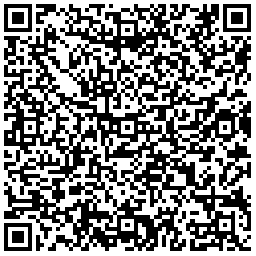
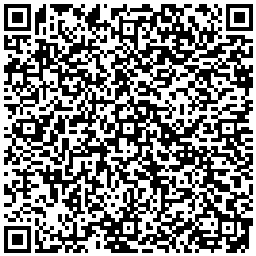
更新

diff --git a/scripts/index.js b/scripts/index.js
@@ -1,0 +1,17 @@
+const fs = require('fs');
+const path = require('path');
+const QRCode = require('qrcode');
+const pkg = require('../package.json')
+const appConfig = require('../project.dgz.json')
+
+QRCode.toFile(path.join(__dirname, '../public/qrcode.png'), JSON.stringify(appConfig), {
+    margin: 1,
+    width: 256,
+    color: {
+        dark: '#000000FF',
+        light: '#FFFFFFFF'
+    }
+}, function (err) {
+    if (err) throw err;
+    console.log('QR code saved!');
+});
